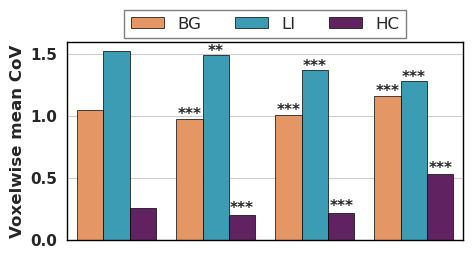
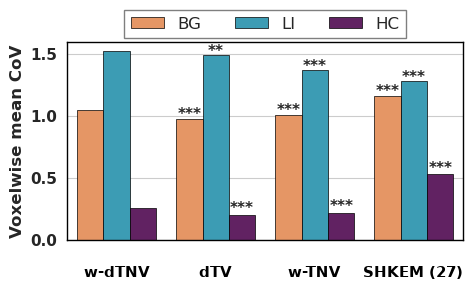
Ch8: add phantom mean images and profiles figure, match RC reference styling, label CoV figure methods

diff --git a/Chapter8.tex b/Chapter8.tex
@@ -458,7 +458,7 @@ Figure~\ref{fig:90y_rc_spheres_comparison} and Table~\ref{tab:90y_effect_ratio_r
 \begin{figure*}[htbp]
     \centering
     \includegraphics[width=\linewidth]{figures/Chapter6/phantoms/manc_nema/bootstrap_rc.png}
-    \caption{Recovery coefficient (RC) for NEMA phantom spheres for \wdtnv, \dtv, \wtnv and SHKEM (subiteration 27). Also shown are the equivalent RCs for a high-count, long-OSEM reconstruction. The grey line indicates perfect recovery. Statistical significance is reported for paired comparisons versus \wdtnv (Benjamini--Hochberg adjusted): $^*$ $p<0.05$, $^{**}$ $p<0.01$, $^{***}$ $p<0.001$.}
+    \caption{Recovery coefficient (RC) for NEMA phantom spheres for \wdtnv, \dtv, \wtnv and SHKEM (subiteration 27). Also shown are the equivalent RCs for the high-count, long-OSEM reconstruction of Figure~\ref{fig:90y_phantom_mean_profiles}. The dashed line indicates perfect recovery. Statistical significance is reported for paired comparisons versus \wdtnv (Benjamini--Hochberg adjusted): $^*$ $p<0.05$, $^{**}$ $p<0.01$, $^{***}$ $p<0.001$.}
     \label{fig:90y_rc_spheres_comparison}
 \end{figure*}
 
@@ -493,11 +493,21 @@ SHKEM (27) & 37\,mm & 0.9931 & [0.8720,\,1.1312] & 0.9175 \\
 \label{tab:90y_effect_ratio_rc}
 \end{table}
 
+Figure~\ref{fig:90y_phantom_mean_profiles} shows the mean over the 20 realisations for each method, together with the long-OSEM reference used for the RC comparison and profiles through all five analysed spheres. \dtv and \wtnv give rounded profiles with lower peaks in the 28 and \SI{22}{mm} spheres, consistent with their lower RC at these sizes, whereas \wdtnv keeps a plateau across the three larger spheres. The rings visible at the edges of the \wdtnv spheres are less pronounced in the profiles than in the images, but they are present: in the larger spheres the \wdtnv profiles rise at most 5\% above their level in the sphere interior, compared with 5--11\% for the long-OSEM reference, and show small shoulders on the sphere edges and a slight dip below the background just outside the \SI{37}{mm} sphere. SHKEM shows a few hot voxels in the larger spheres (Figure~\ref{fig:90y_phantom_recon_comparison}), and these persist in the mean image. In every realisation, its maximum in the 22, 28 and \SI{37}{mm} spheres exceeded that of \wdtnv, but its sphere means, and hence RC, were similar for these spheres and lower for the two smallest; background means differed by less than 1\%.
+
+In the 10 and \SI{13}{mm} spheres (profile C), all four methods peak below the long-OSEM reference. This is expected: the reference is reconstructed from 60 times as many counts, and averaging the low-count reconstructions removes their noise but not the loss of resolution from the regularisation needed at that count level. \wdtnv gives the highest peak of the four methods in the \SI{10}{mm} sphere. In the \SI{13}{mm} sphere, \wdtnv and SHKEM peak at similar levels, well above \dtv and \wtnv. SHKEM's RC for this sphere is nonetheless lower (Table~\ref{tab:90y_effect_ratio_rc}): RC averages over the whole sphere VOI, whereas a profile samples a single line through its centre.
+\begin{figure}[htbp]
+    \centering
+    \includegraphics[width=\linewidth]{figures/Chapter6/phantoms/manc_nema/phantom_mean_images_profiles.png}
+    \caption{Mean NEMA phantom PET images and profiles, on the slice and colour scale of Figure~\ref{fig:90y_phantom_recon_comparison} (reconstruction intensity units). Top: the long-acquisition (\SI{15}{\hour}) OSEM reconstruction (24 subsets, 240 iterations), scaled by the bootstrap thinning fraction (0.0167), and the mean of the 20 bootstrap realisations for each method. The long-OSEM image and profiles are post-smoothed with a \SI{7}{mm} Gaussian for display only; the unsmoothed image, used as the RC reference in Figure~\ref{fig:90y_rc_spheres_comparison}, is dominated by voxel-level noise and is therefore not shown. Bottom: profiles along the dashed lines A, B and C (first panel) through the \SI{37}{mm} sphere, the 28 and \SI{22}{mm} spheres, and the 10 and \SI{13}{mm} spheres. The grey bands show the width of each sphere along the profile, taken from the sphere VOIs used for RC; they do not indicate the expected intensity. The mean images are shown for visual comparison only: averaging removes the noise present in any single acquisition, and all quantitative results (Figures~\ref{fig:90y_rc_spheres_comparison} and~\ref{fig:90y_phantom_cov} and Table~\ref{tab:90y_effect_ratio_rc}) are computed from the individual realisations.}
+    \label{fig:90y_phantom_mean_profiles}
+\end{figure}
+
 Figure~\ref{fig:90y_phantom_cov} summarises voxel-wise reproducibility across bootstraps. At the matched operating point, \dtv and \wtnv yield lower voxel-wise CoV than \wdtnv in the evaluated VOIs, consistent with stronger effective smoothing. SHKEM exhibits higher variability in background and high-count regions but improved stability in the cold lung insert. Sphere-level CoV trends were consistent with the voxel-wise analysis, with \wtnv and \dtv generally providing the lowest variability across the evaluated sphere diameters and SHKEM the highest.
 \begin{figure}[htbp]
     \centering
     \includegraphics[width=\linewidth]{figures/Chapter6/phantoms/manc_nema/bootstrap_voxelwise_cov.png}
-    \caption{VOI-mean inter-bootstrap voxel coefficient of variation (CoV, dimensionless ratio) across 20 bootstrapped PET realisations within each VOI\@. The groups from left to right are \wdtnv, \dtv, \wtnv and SHKEM (27). Statistical significance is reported for paired comparisons versus \wdtnv (BH-adjusted): $^*$ $p<0.05$, $^{**}$ $p<0.01$, $^{***}$ $p<0.001$.}
+    \caption{VOI-mean inter-bootstrap voxel coefficient of variation (CoV, dimensionless ratio) across 20 bootstrapped PET realisations within each VOI\@. Statistical significance is reported for paired comparisons versus \wdtnv (BH-adjusted): $^*$ $p<0.05$, $^{**}$ $p<0.01$, $^{***}$ $p<0.001$.}
     \label{fig:90y_phantom_cov}
 \end{figure}
 
@@ -577,7 +587,7 @@ SHKEM (27)  & 1.339 & [1.022,\,1.753] & 0.103 \\
 \section{Discussion}
 \label{sec:90y_discussion}
 
-At the matched operating point, \wtnv alone did not recover the smallest sphere boundaries. Adding anatomical guidance, explicitly in \wdtnv or implicitly through CT-informed SHKEM features, improved boundary localisation. The gain of \wdtnv over \wtnv and \dtv was largest for the smallest spheres, where PET counts and SPECT resolution were most limiting.
+At the matched operating point, \wtnv alone did not recover the smallest sphere boundaries. Adding anatomical guidance, explicitly in \wdtnv or implicitly through CT-informed SHKEM features, improved boundary localisation. The gain of \wdtnv over \wtnv and \dtv was largest for the smallest spheres (profile C in Figure~\ref{fig:90y_phantom_mean_profiles}), where PET counts and SPECT resolution were most limiting.
 
 At the selected operating point, \dtv and \wtnv had lower voxel-wise CoV than \wdtnv, suggesting stronger effective smoothing. The variational methods were more repeatable than SHKEM in background and high-count regions, while SHKEM was most stable in the cold lung insert. One possible explanation is that its kernel weights average nearby near-zero voxels, so positivity reinforces the cold region. This may improve stability there without improving repeatability elsewhere.
 
